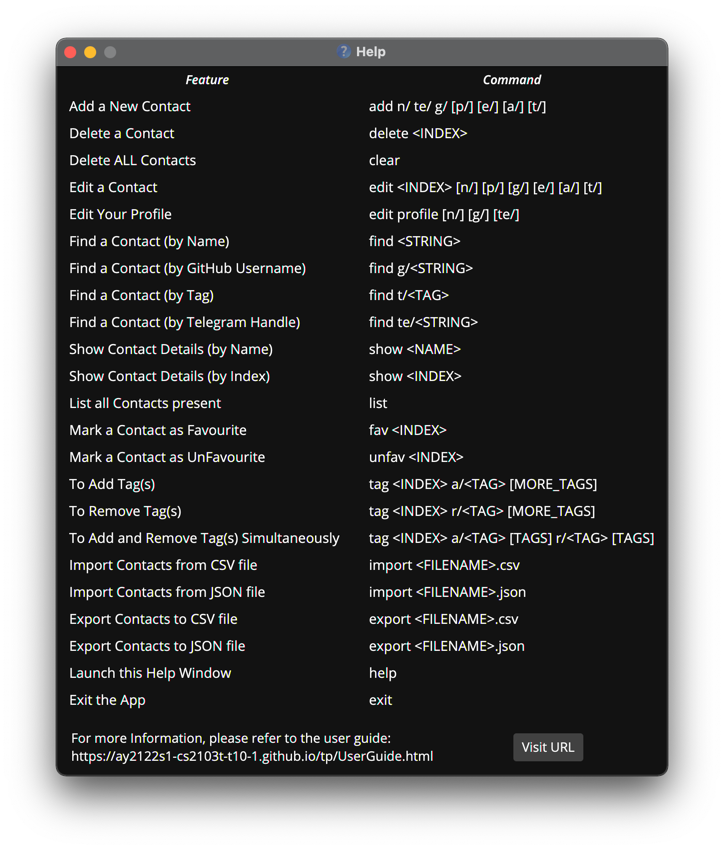
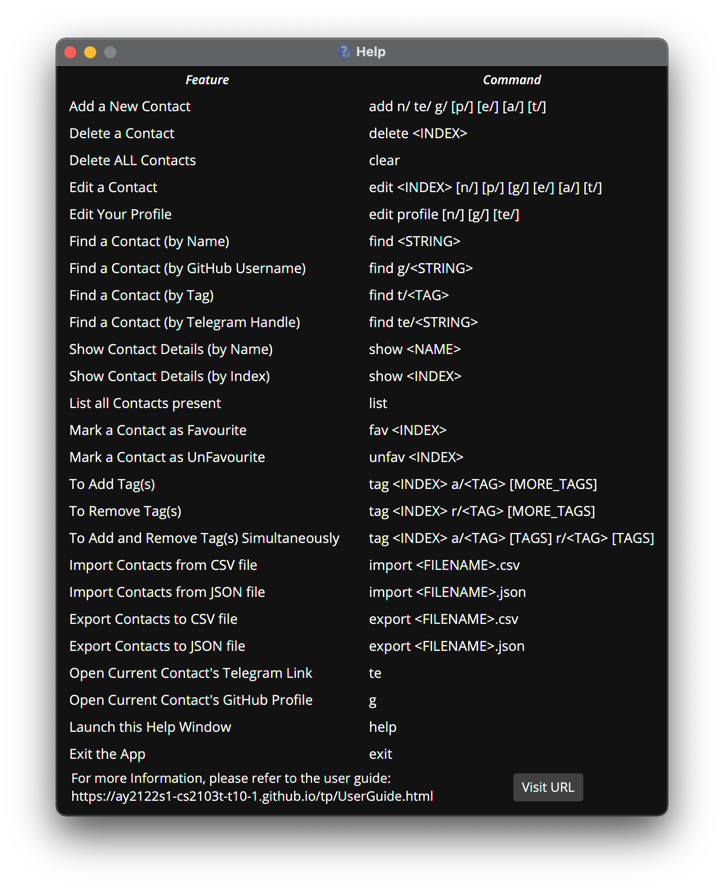
Update Command Summary Table in UserGuide.md
Minor Tweaks as well.

Changed region(s): [[0.0608, 0.0306, 0.9116, 0.9176]]

diff --git a/docs/UserGuide.md b/docs/UserGuide.md
@@ -486,6 +486,8 @@ Examples:
 
 Displays the Help Window, which consists of a list of possible Commands, and a link to this UserGuide.
 
+When the `Visit URL` button is clicked, the UserGuide is opened in the system's default web browser.
+
 Format:
 
 ```
@@ -579,6 +581,8 @@ A: Please **strictly** follow the command format to avoid such issues.
 | Find a Student (by Telegram Handle) | `find te/<TELEGRAM>` |
 | Import Student Contacts | `import <FILENAME>.json` <br> `import <FILENAME>.csv` |
 | List all the Student Contacts Present | `list` |
+| Open Current Student's GitHub Profile in the Web Browser | `g` |
+| Open Current Student's Telegram Link in the Web Browser | `te` |
 | Show the Help Window | `help` |
 | Show a Student Contact (by Name)| `show <NAME>` |
 | Show a Student Contact (by Index) | `show <INDEX>` |
